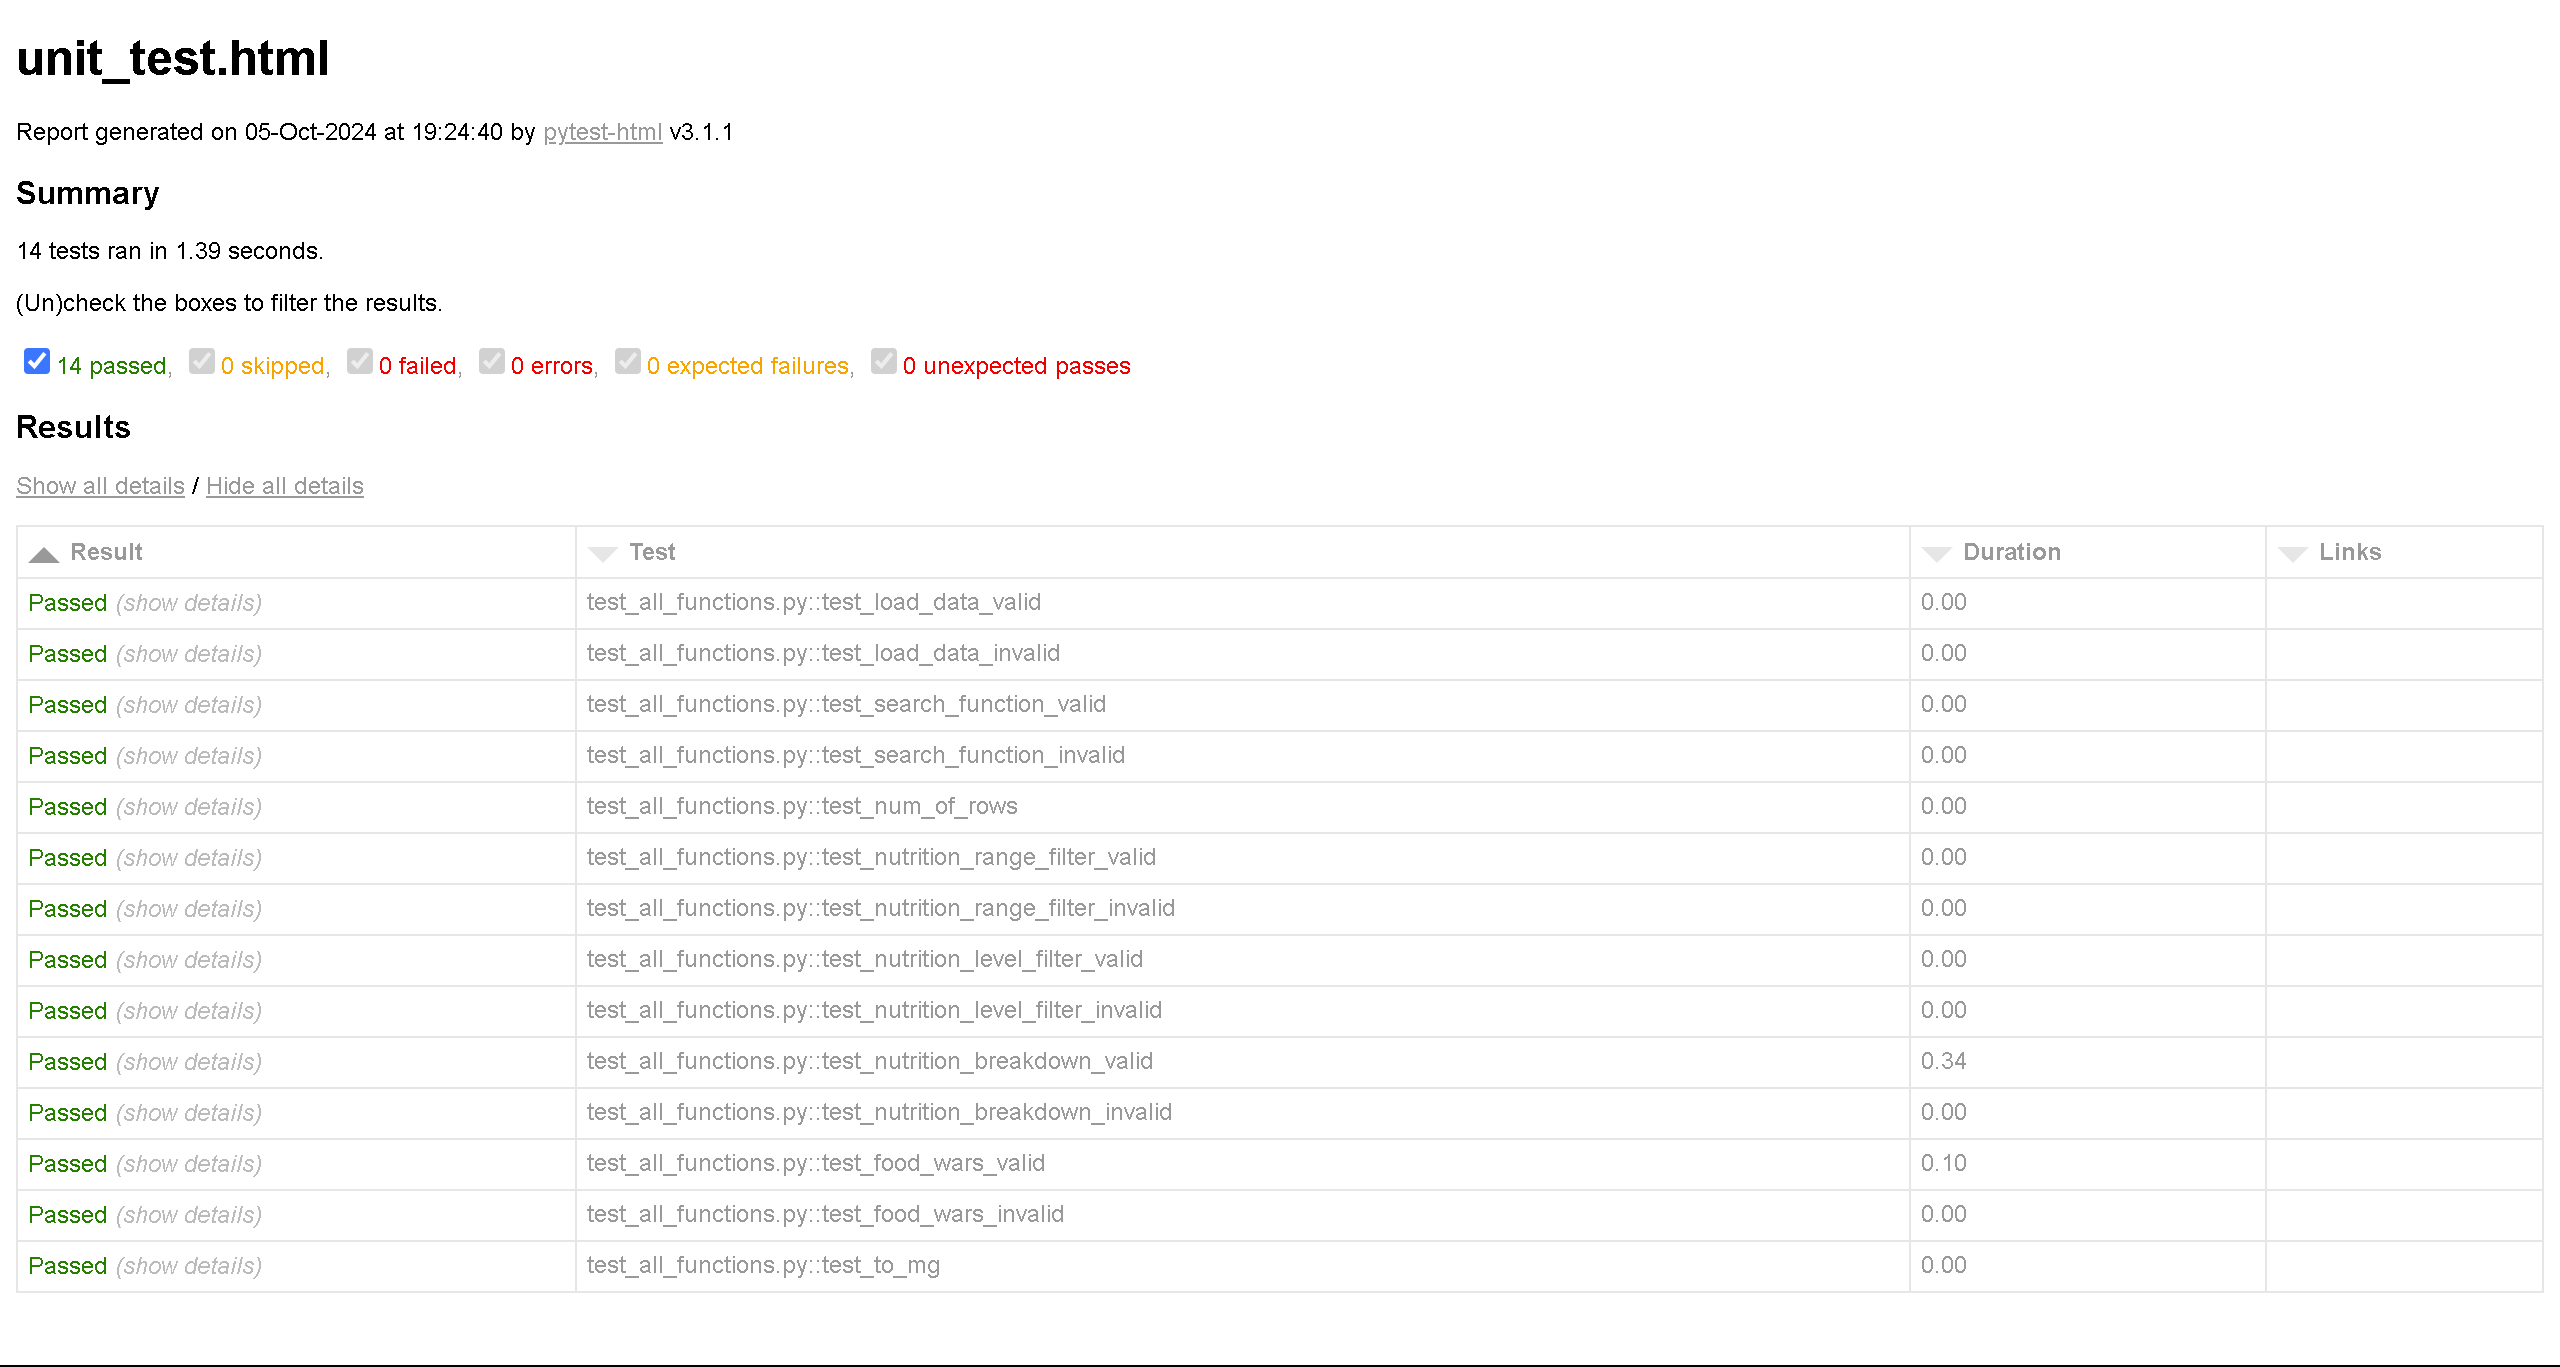
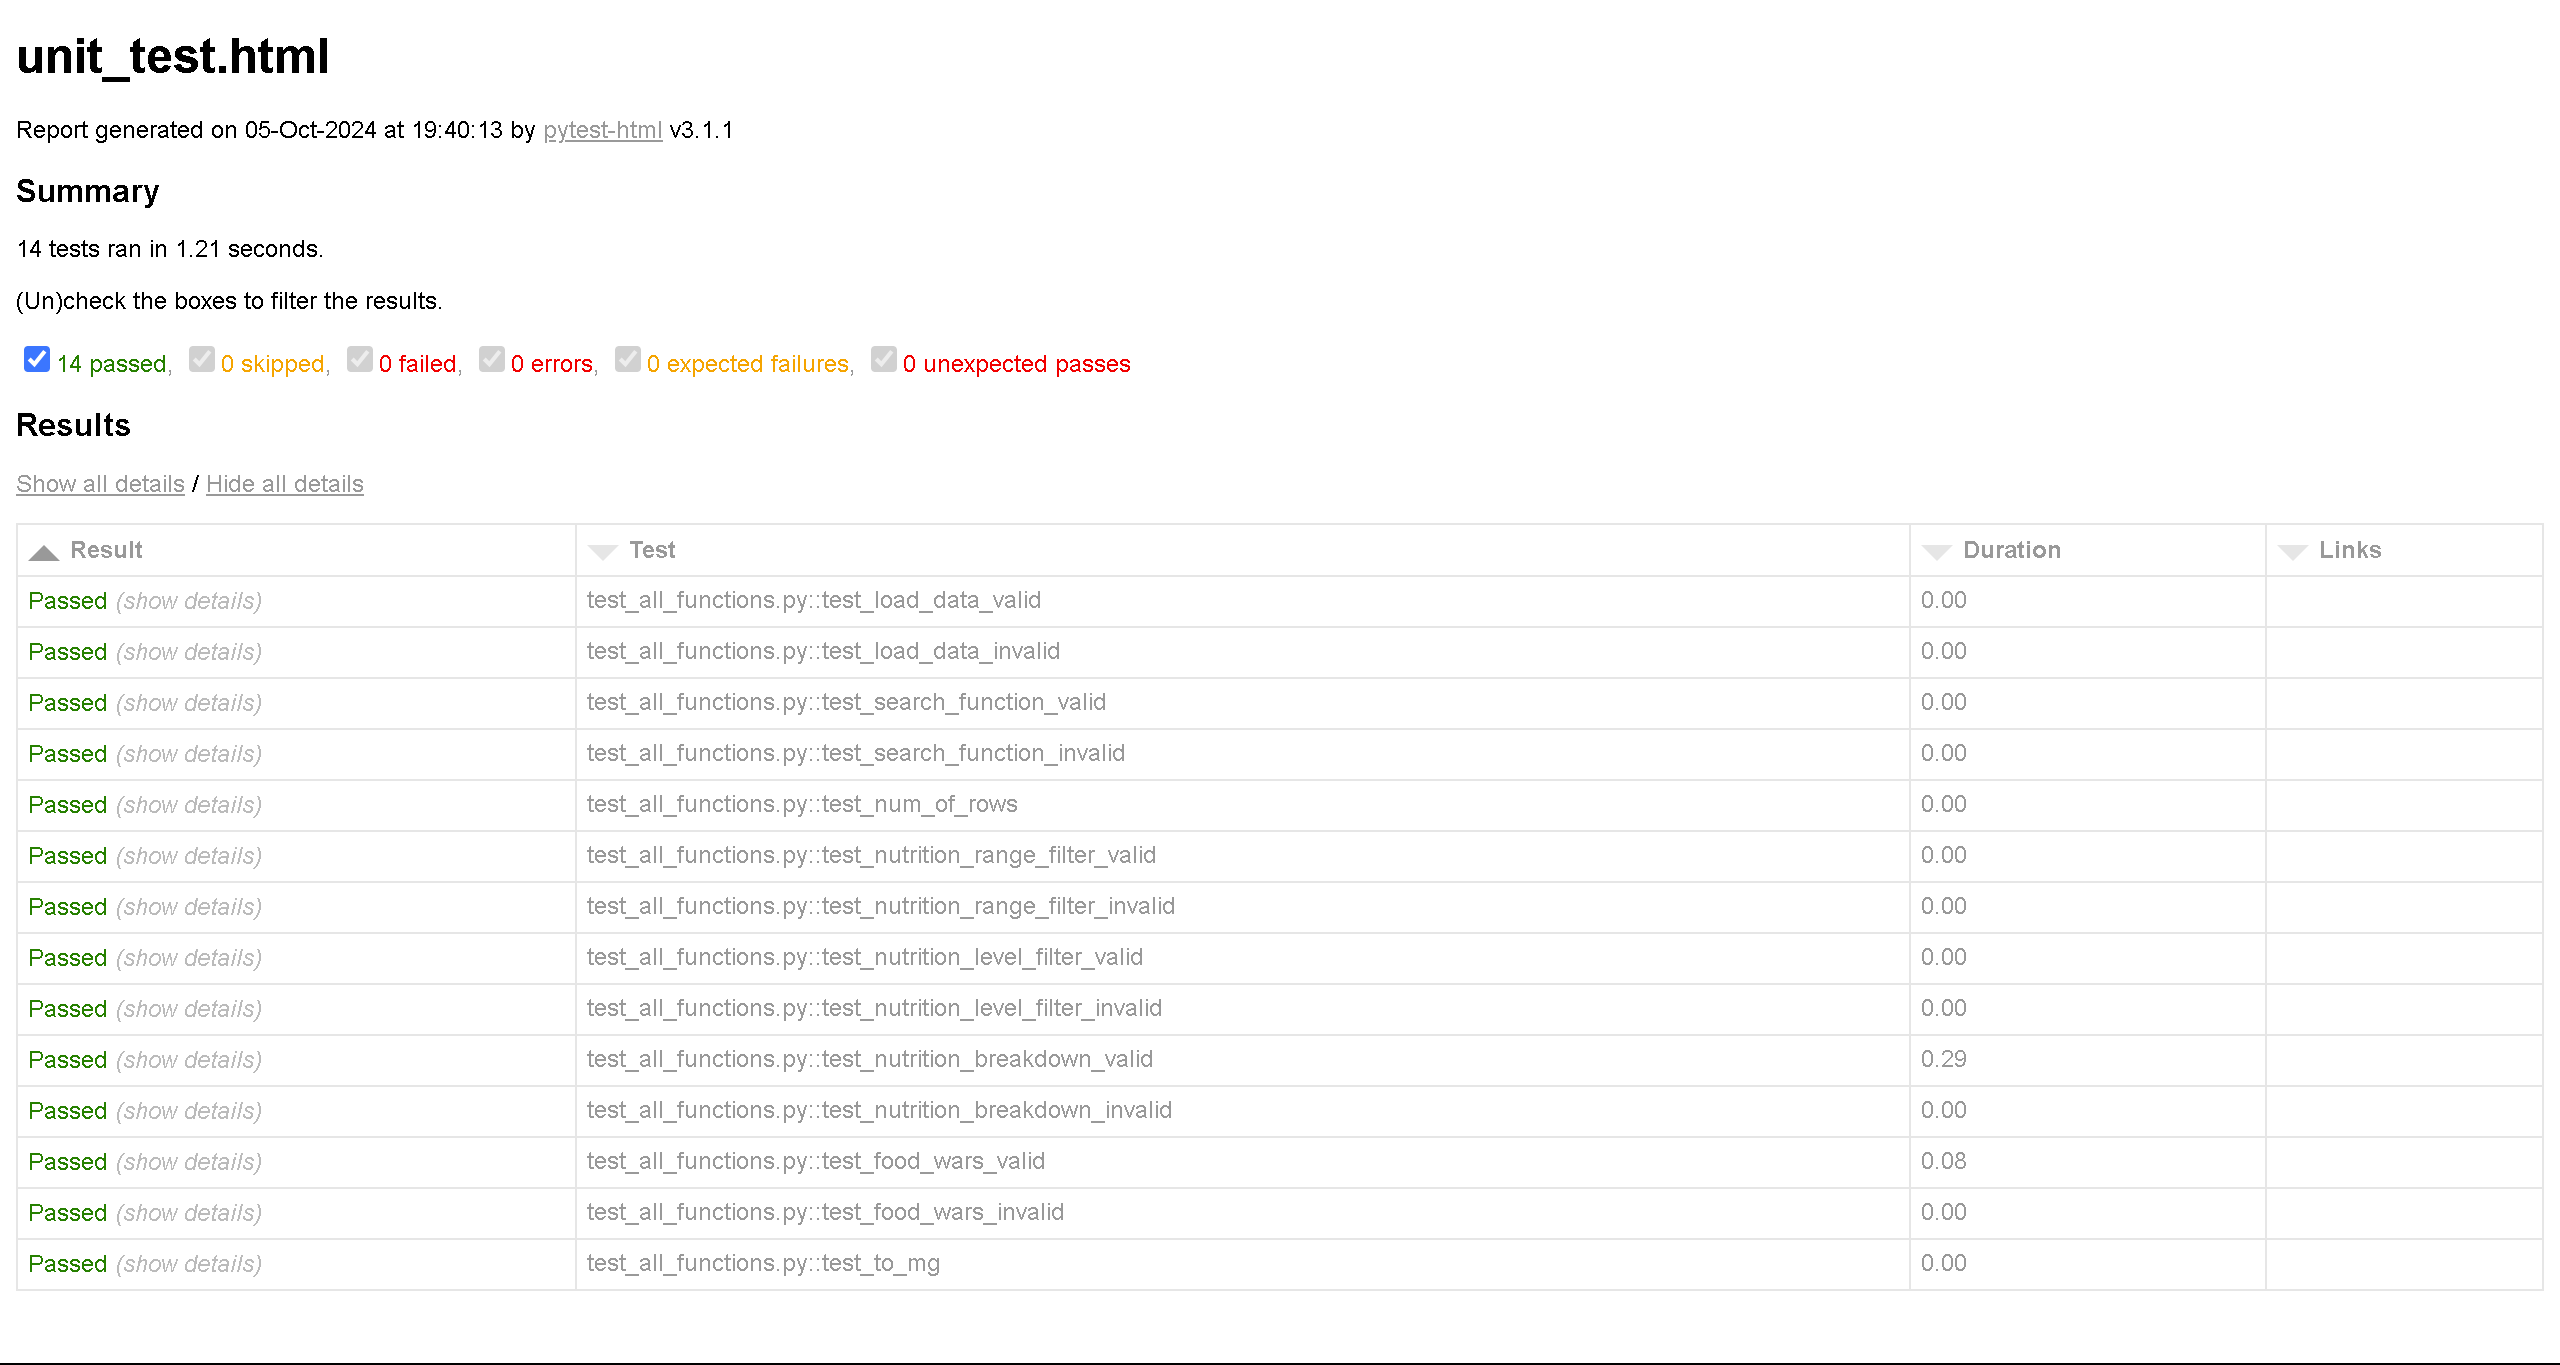
added screenshots to testing docs

diff --git a/Milestone_2/unit_test.html b/Milestone_2/unit_test.html
@@ -429,9 +429,9 @@ function filterTable(elem) { // eslint-disable-line no-unused-vars
 }
 </script>
     <h1>unit_test.html</h1>
-    <p>Report generated on 05-Oct-2024 at 19:24:40 by <a href="https://pypi.python.org/pypi/pytest-html">pytest-html</a> v3.1.1</p>
+    <p>Report generated on 05-Oct-2024 at 19:40:13 by <a href="https://pypi.python.org/pypi/pytest-html">pytest-html</a> v3.1.1</p>
     <h2>Summary</h2>
-    <p>14 tests ran in 1.39 seconds. </p>
+    <p>14 tests ran in 1.21 seconds. </p>
     <p class="filter" hidden="true">(Un)check the boxes to filter the results.</p><input checked="true" class="filter" data-test-result="passed" hidden="true" name="filter_checkbox" onChange="filterTable(this)" type="checkbox"/><span class="passed">14 passed</span>, <input checked="true" class="filter" data-test-result="skipped" disabled="true" hidden="true" name="filter_checkbox" onChange="filterTable(this)" type="checkbox"/><span class="skipped">0 skipped</span>, <input checked="true" class="filter" data-test-result="failed" disabled="true" hidden="true" name="filter_checkbox" onChange="filterTable(this)" type="checkbox"/><span class="failed">0 failed</span>, <input checked="true" class="filter" data-test-result="error" disabled="true" hidden="true" name="filter_checkbox" onChange="filterTable(this)" type="checkbox"/><span class="error">0 errors</span>, <input checked="true" class="filter" data-test-result="xfailed" disabled="true" hidden="true" name="filter_checkbox" onChange="filterTable(this)" type="checkbox"/><span class="xfailed">0 expected failures</span>, <input checked="true" class="filter" data-test-result="xpassed" disabled="true" hidden="true" name="filter_checkbox" onChange="filterTable(this)" type="checkbox"/><span class="xpassed">0 unexpected passes</span>
     <h2>Results</h2>
     <table id="results-table">
@@ -528,7 +528,7 @@ function filterTable(elem) { // eslint-disable-line no-unused-vars
         <tr>
           <td class="col-result">Passed</td>
           <td class="col-name">test_all_functions.py::test_nutrition_breakdown_valid</td>
-          <td class="col-duration">0.34</td>
+          <td class="col-duration">0.29</td>
           <td class="col-links"></td></tr>
         <tr>
           <td class="extra" colspan="4">
@@ -546,7 +546,7 @@ function filterTable(elem) { // eslint-disable-line no-unused-vars
         <tr>
           <td class="col-result">Passed</td>
           <td class="col-name">test_all_functions.py::test_food_wars_valid</td>
-          <td class="col-duration">0.10</td>
+          <td class="col-duration">0.08</td>
           <td class="col-links"></td></tr>
         <tr>
           <td class="extra" colspan="4">

diff --git a/Milestone_2/test_all_functions.py b/Milestone_2/test_all_functions.py
@@ -1,5 +1,4 @@
 import all_functions as af
-from all_functions_ben import food_wars
 import pandas as pd
 import pytest
 import matplotlib.pyplot as plt
@@ -234,7 +233,7 @@ def test_nutrition_breakdown_invalid():
 def test_food_wars_valid(mock_show):
     food_inputs = ['Peanut Butter', 'Apple Pie', 'Another Random Item']
     
-    result = food_wars(food_inputs, 'Poison', df)
+    result = af.food_wars(food_inputs, 'Poison', df)
     mock_show.assert_called_once()
 
     # testing for all valid labels
@@ -263,18 +262,18 @@ def test_food_wars_valid(mock_show):
 
     # testing with empty inputs
     food_inputs_empty = ['Peanut Butter', '', 'Apple Pie', '']
-    emptyResult = food_wars(food_inputs_empty, 'Poison', df)
+    emptyResult = af.food_wars(food_inputs_empty, 'Poison', df)
     assert len(emptyResult) == 2
     assert list(emptyResult['food']) == ['Peanut Butter', 'Apple Pie']
 
 def test_food_wars_invalid():
     # testing with less than two foods
     with pytest.raises(ValueError):
-        food_wars(['Peanut Butter'], 'Poison', df)
+        af.food_wars(['Peanut Butter'], 'Poison', df)
 
     # testing with invalid nutrient
     with pytest.raises(ValueError):
-        food_wars(['Peanut Butter', 'Apple Pie'], 'Does Not Exist', df)
+        af.food_wars(['Peanut Butter', 'Apple Pie'], 'Does Not Exist', df)
 
 
 def test_to_mg():

diff --git a/Milestone_2/all_functions.py b/Milestone_2/all_functions.py
@@ -119,3 +119,27 @@ def nutrition_level_filter(dFrame, nutrientName, level=None):
     return dFrame[nutrientColumn > highPercent]
   else:
     raise TypeError("Invalid Level")
+  
+
+def food_wars(food_inputs, nutrient, df):
+    # Filter out empty inputs and ensure at least two foods are provided
+    food_inputs = [food for food in food_inputs if food]
+    if len(food_inputs) < 2:
+        raise ValueError("Please enter at least two foods to compare.")
+    
+    # Filter data for selected foods and nutrient
+    df_filtered = df[df['food'].isin(food_inputs)]
+    if nutrient not in df.columns:
+        raise ValueError(f"Nutrient '{nutrient}' not found in data.")
+
+    # Plotting the data
+    plt.figure(figsize=(10, 6))
+    plt.bar(df_filtered['food'], df_filtered[nutrient], color='skyblue')
+    plt.xlabel('Food')
+    plt.ylabel(f"{nutrient} (mg)")
+    plt.title(f'Food Wars: The {nutrient} Battles')
+    plt.xticks(rotation=45)
+    plt.tight_layout()
+    plt.show()
+
+    return df_filtered

diff --git a/Milestone_2/Coverage_Testing_Report.md b/Milestone_2/Coverage_Testing_Report.md
@@ -1,21 +1,23 @@
 # Coverage Testing Report
 
 Please provide your GitHub repository link.
-### GitHub Repository URL: https://github.com/XXXX/XXXXX.git
+
+### GitHub Repository URL: https://github.com/braithicus/2810ICT-Project-Management-Assignment
 
 ---
 
-The testing report should focus solely on <span style="color:red"> testing all the self-defined functions related to 
+The testing report should focus solely on <span style="color:red"> testing all the self-defined functions related to
 the five required features.</span> There is no need to test the GUI components. Therefore, it is essential to decouple your code and separate the logic from the GUI-related code.
 
 You should perform statement coverage testing and branch coverage testing. For each type, provide a description and an analysis explaining how you evaluated the coverage.
 
 ## 1. **Test Summary**
+
 list all tested functions related to the five required features, for example:
 
 | **Tested Functions** |
-|----------------------|
-| `add(x1,x2)`         | 
+| -------------------- |
+| `add(x1,x2)`         |
 | `divide(x1,x2)`      |
 | `...`                |
 
@@ -28,13 +30,15 @@ list all tested functions related to the five required features, for example:
 Explain how you designed the test cases (i.e., test_all_functions.py) to reach 100% statement coverage.
 
 ### 2.2 Testing Results
-You can use the following command to run the statement coverage test and generate the report in the terminal. Afterward, include a screenshot of the report. 
+
+You can use the following command to run the statement coverage test and generate the report in the terminal. Afterward, include a screenshot of the report.
 
 You must provide the test_all_functions.py file, which contains all test functions, otherwise pytest will not be able to execute the tests.
 
 ```commandline
 pytest --cov=all_functions --cov-report=term
 ```
+
 Note: In the command above, the file/module `all_functions` does not include the .py extension. all_functions.py should contain all the tested functions related to the five required features.
 
 ![statement_coverage](./statement_coverage.png)
@@ -46,13 +50,15 @@ Note: In the command above, the file/module `all_functions` does not include the
 Explain how you designed the test cases (i.e., test_all_functions.py) to reach 100% branch coverage.
 
 ### 3.2 Testing Results
-You can use the following command to run the branch coverage test and generate the report in the terminal. Afterward, include a screenshot of the report. 
+
+You can use the following command to run the branch coverage test and generate the report in the terminal. Afterward, include a screenshot of the report.
 
 You must provide the test_all_functions.py file, which contains all test functions, otherwise pytest will not be able to execute the tests.
 
 ```commandline
 pytest --cov=all_functions --cov-branch --cov-report=term
 ```
+
 Note: In the command above, the file/module `all_functions` does not include the .py extension. all_functions.py should contain all the tested functions related to the five required features.
 
 ![statement_coverage](./branch_coverage.png)
